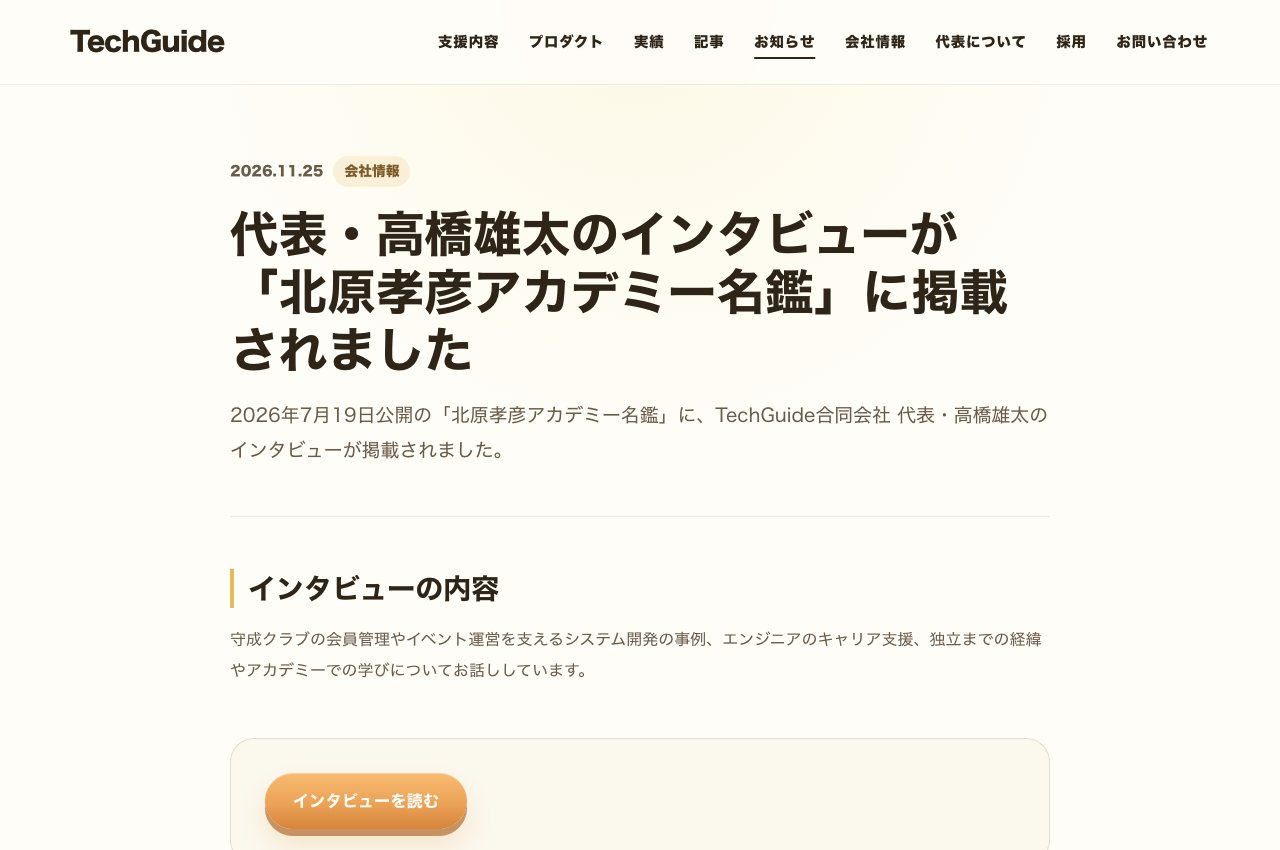
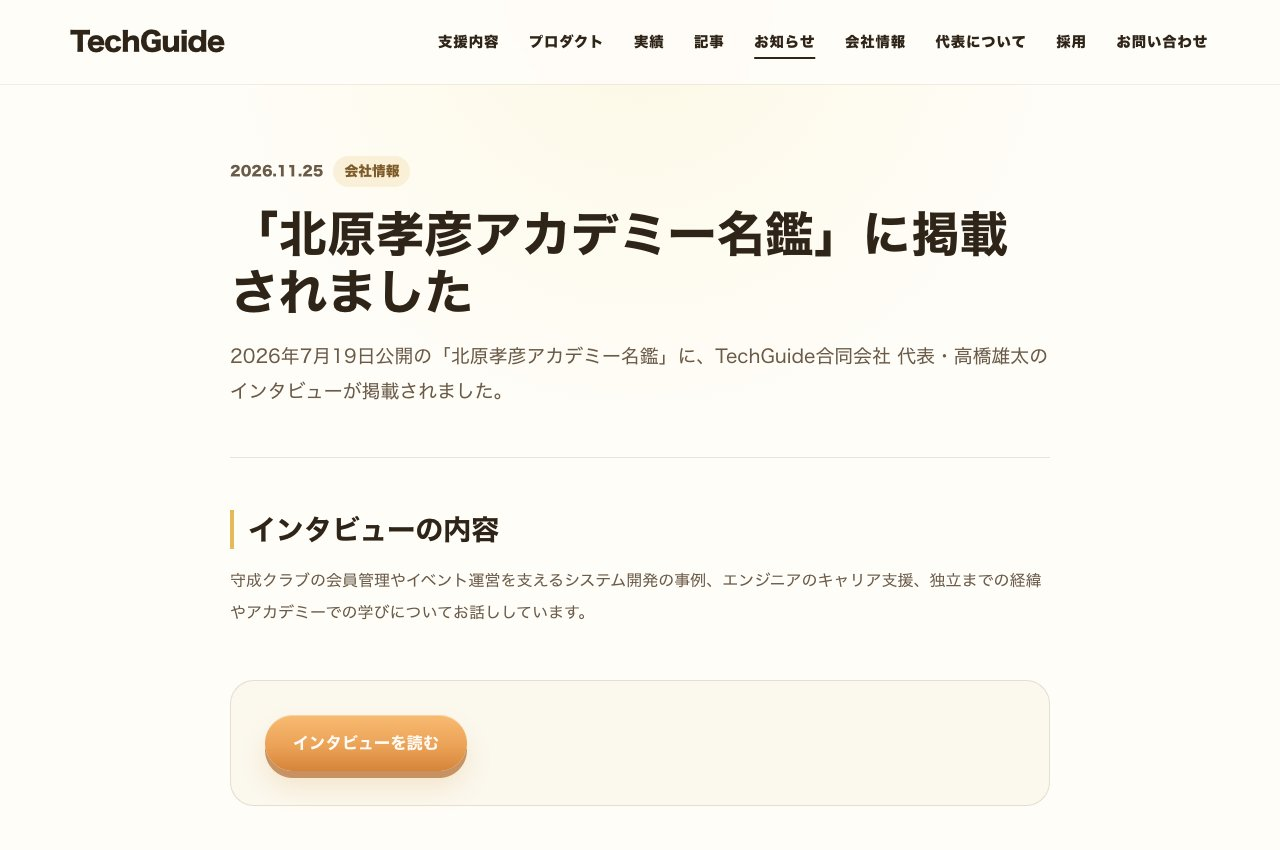
fix: 名鑑掲載のお知らせの見出しを短縮

diff --git a/techguide/src/lib/news/news.ts b/techguide/src/lib/news/news.ts
@@ -10,7 +10,7 @@ const shuseiContactSearch = new URLSearchParams({
 export const newsItems: readonly NewsItem[] = [
   {
     slug: 'academy-meikan-interview',
-    title: '代表・高橋雄太のインタビューが「北原孝彦アカデミー名鑑」に掲載されました',
+    title: '「北原孝彦アカデミー名鑑」に掲載されました',
     description:
       'システム開発や業務改善の取り組み、独立までの経緯、アカデミーでの学びについてお話ししました。',
     category: 'company',
